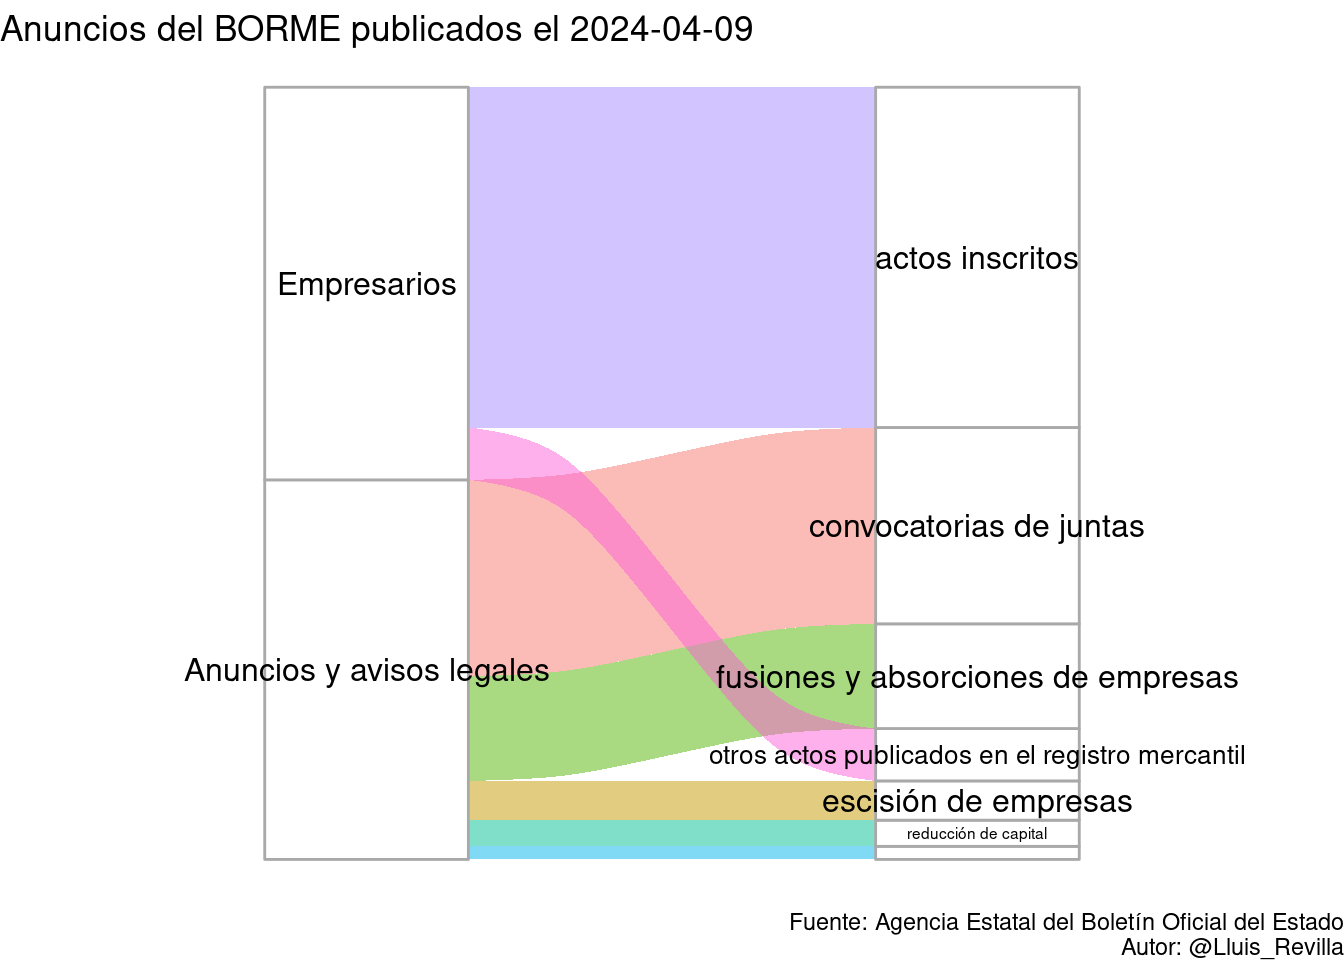
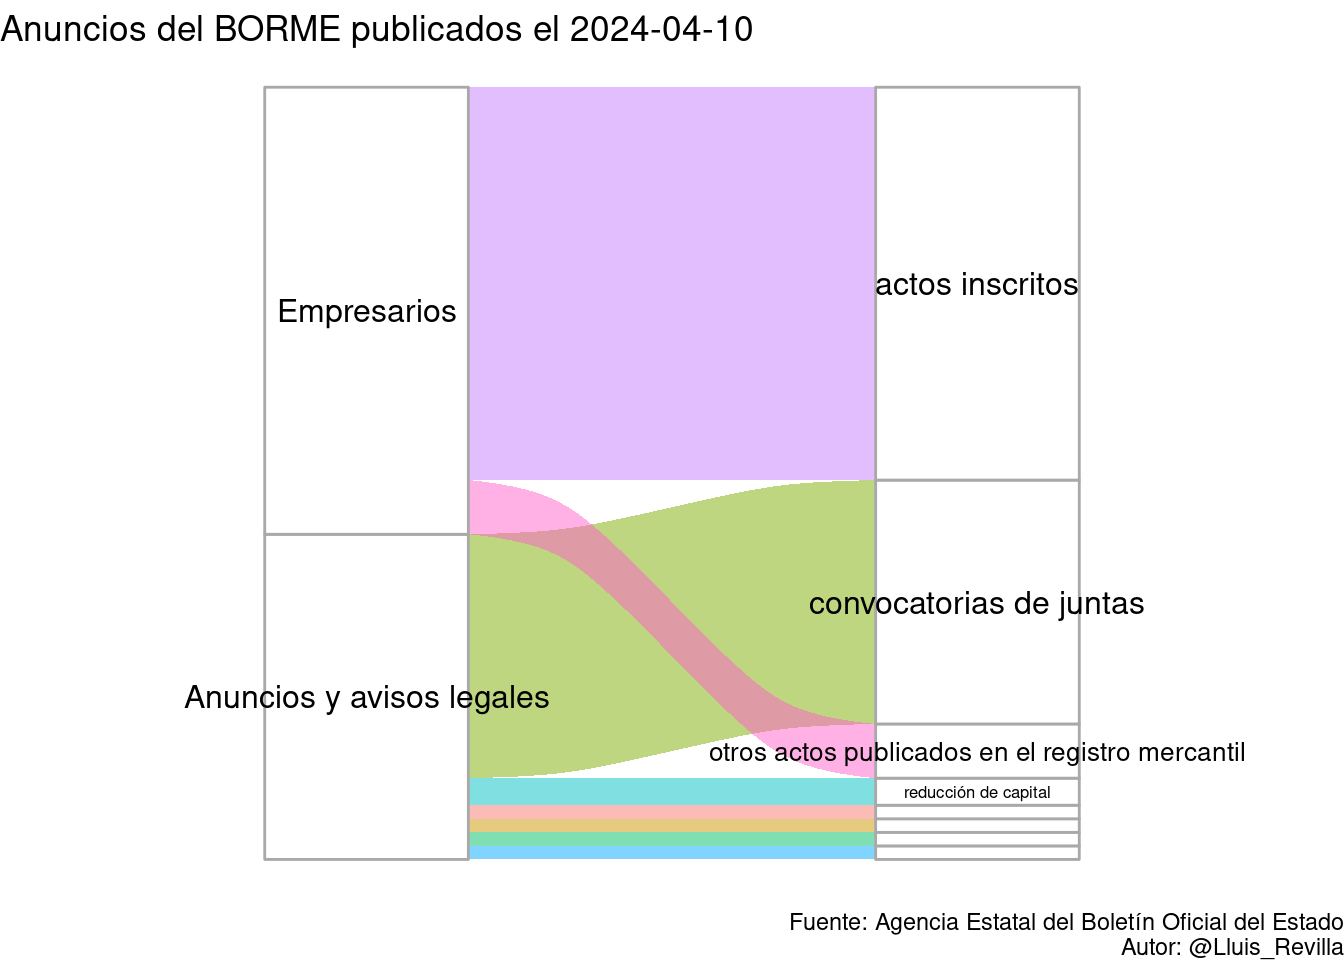
Update BORME

diff --git a/docs/last_BORME.html b/docs/last_BORME.html
@@ -379,14 +379,14 @@ $(document).ready(function () {
 
 <div id="resumen-gráfico" class="section level1">
 <h1>Resumen gráfico</h1>
-<p>Esta página web contiene el último sumario del BORME publicado el 2024-04-09 con 59 publicaciones.</p>
+<p>Esta página web contiene el último sumario del BORME publicado el 2024-04-10 con 57 publicaciones.</p>
 <p><img src="last_BORME_files/figure-html/graphics-1.png" width="672" /></p>
 </div>
 <div id="tabla-de-publicaciones" class="section level1">
 <h1>Tabla de publicaciones</h1>
 <p>Aquí está la tabla completa con enlaces a las publicaciones:</p>
-<div class="datatables html-widget html-fill-item-overflow-hidden html-fill-item" id="htmlwidget-4fb6b2b3174a7cd1887a" style="width:100%;height:auto;"></div>
-<script type="application/json" data-for="htmlwidget-4fb6b2b3174a7cd1887a">{"x":{"filter":"top","vertical":false,"filterHTML":"<tr>\n  <td><\/td>\n  <td data-type=\"character\" style=\"vertical-align: top;\">\n    <div class=\"form-group has-feedback\" style=\"margin-bottom: auto;\">\n      <input type=\"search\" placeholder=\"All\" class=\"form-control\" style=\"width: 100%;\"/>\n      <span class=\"glyphicon glyphicon-remove-circle form-control-feedback\"><\/span>\n    <\/div>\n  <\/td>\n  <td data-type=\"character\" style=\"vertical-align: top;\">\n    <div class=\"form-group has-feedback\" style=\"margin-bottom: auto;\">\n      <input type=\"search\" placeholder=\"All\" class=\"form-control\" style=\"width: 100%;\"/>\n      <span class=\"glyphicon glyphicon-remove-circle form-control-feedback\"><\/span>\n    <\/div>\n  <\/td>\n  <td data-type=\"character\" style=\"vertical-align: top;\">\n    <div class=\"form-group has-feedback\" style=\"margin-bottom: auto;\">\n      <input type=\"search\" placeholder=\"All\" class=\"form-control\" style=\"width: 100%;\" disabled=\"\"/>\n      <span class=\"glyphicon glyphicon-remove-circle form-control-feedback\"><\/span>\n    <\/div>\n  <\/td>\n  <td data-type=\"character\" style=\"vertical-align: top;\">\n    <div class=\"form-group has-feedback\" style=\"margin-bottom: auto;\">\n      <input type=\"search\" placeholder=\"All\" class=\"form-control\" style=\"width: 100%;\"/>\n      <span class=\"glyphicon glyphicon-remove-circle form-control-feedback\"><\/span>\n    <\/div>\n  <\/td>\n<\/tr>","data":[["1","2","3","4","5","6","7","8","9","10","11","12","13","14","15","16","17","18","19","20","21","22","23","24","25","26","27","28","29","30","31","32","33","34","35","36","37","38","39","40","41","42","43","44","45","46","47","48","49","50","51","52","53","54","55","56","57","58","59"],["SECCIÓN PRIMERA. Empresarios","SECCIÓN PRIMERA. Empresarios","SECCIÓN PRIMERA. Empresarios","SECCIÓN PRIMERA. Empresarios","SECCIÓN PRIMERA. Empresarios","SECCIÓN PRIMERA. Empresarios","SECCIÓN PRIMERA. Empresarios","SECCIÓN PRIMERA. Empresarios","SECCIÓN PRIMERA. Empresarios","SECCIÓN PRIMERA. Empresarios","SECCIÓN PRIMERA. Empresarios","SECCIÓN PRIMERA. Empresarios","SECCIÓN PRIMERA. Empresarios","SECCIÓN PRIMERA. Empresarios","SECCIÓN PRIMERA. Empresarios","SECCIÓN PRIMERA. Empresarios","SECCIÓN PRIMERA. Empresarios","SECCIÓN PRIMERA. Empresarios","SECCIÓN PRIMERA. Empresarios","SECCIÓN PRIMERA. Empresarios","SECCIÓN PRIMERA. Empresarios","SECCIÓN PRIMERA. Empresarios","SECCIÓN PRIMERA. Empresarios","SECCIÓN PRIMERA. Empresarios","SECCIÓN PRIMERA. Empresarios","SECCIÓN PRIMERA. Empresarios","SECCIÓN PRIMERA. Empresarios","SECCIÓN PRIMERA. Empresarios","SECCIÓN PRIMERA. Empresarios","SECCIÓN PRIMERA. Empresarios","SECCIÓN SEGUNDA. Anuncios y avisos legales","SECCIÓN SEGUNDA. Anuncios y avisos legales","SECCIÓN SEGUNDA. Anuncios y avisos legales","SECCIÓN SEGUNDA. Anuncios y avisos legales","SECCIÓN SEGUNDA. Anuncios y avisos legales","SECCIÓN SEGUNDA. Anuncios y avisos legales","SECCIÓN SEGUNDA. Anuncios y avisos legales","SECCIÓN SEGUNDA. Anuncios y avisos legales","SECCIÓN SEGUNDA. Anuncios y avisos legales","SECCIÓN SEGUNDA. Anuncios y avisos legales","SECCIÓN SEGUNDA. Anuncios y avisos legales","SECCIÓN SEGUNDA. Anuncios y avisos legales","SECCIÓN SEGUNDA. Anuncios y avisos legales","SECCIÓN SEGUNDA. Anuncios y avisos legales","SECCIÓN SEGUNDA. Anuncios y avisos legales","SECCIÓN SEGUNDA. Anuncios y avisos legales","SECCIÓN SEGUNDA. Anuncios y avisos legales","SECCIÓN SEGUNDA. Anuncios y avisos legales","SECCIÓN SEGUNDA. Anuncios y avisos legales","SECCIÓN SEGUNDA. Anuncios y avisos legales","SECCIÓN SEGUNDA. Anuncios y avisos legales","SECCIÓN SEGUNDA. Anuncios y avisos legales","SECCIÓN SEGUNDA. Anuncios y avisos legales","SECCIÓN SEGUNDA. Anuncios y avisos legales","SECCIÓN SEGUNDA. Anuncios y avisos legales","SECCIÓN SEGUNDA. Anuncios y avisos legales","SECCIÓN SEGUNDA. Anuncios y avisos legales","SECCIÓN SEGUNDA. Anuncios y avisos legales","SECCIÓN SEGUNDA. Anuncios y avisos legales"],["Actos inscritos","Actos inscritos","Actos inscritos","Actos inscritos","Actos inscritos","Actos inscritos","Actos inscritos","Actos inscritos","Actos inscritos","Actos inscritos","Actos inscritos","Actos inscritos","Actos inscritos","Actos inscritos","Actos inscritos","Actos inscritos","Actos inscritos","Actos inscritos","Actos inscritos","Actos inscritos","Actos inscritos","Actos inscritos","Actos inscritos","Actos inscritos","Actos inscritos","Actos inscritos","Otros actos publicados en el Registro Mercantil","Otros actos publicados en el Registro Mercantil","Otros actos publicados en el Registro Mercantil","Otros actos publicados en el Registro Mercantil","CONVOCATORIAS DE JUNTAS","CONVOCATORIAS DE JUNTAS","CONVOCATORIAS DE JUNTAS","CONVOCATORIAS DE JUNTAS","CONVOCATORIAS DE JUNTAS","CONVOCATORIAS DE JUNTAS","CONVOCATORIAS DE JUNTAS","CONVOCATORIAS DE JUNTAS","CONVOCATORIAS DE JUNTAS","CONVOCATORIAS DE JUNTAS","CONVOCATORIAS DE JUNTAS","CONVOCATORIAS DE JUNTAS","CONVOCATORIAS DE JUNTAS","CONVOCATORIAS DE JUNTAS","CONVOCATORIAS DE JUNTAS","FUSIONES Y ABSORCIONES DE EMPRESAS","FUSIONES Y ABSORCIONES DE EMPRESAS","FUSIONES Y ABSORCIONES DE EMPRESAS","FUSIONES Y ABSORCIONES DE EMPRESAS","FUSIONES Y ABSORCIONES DE EMPRESAS","FUSIONES Y ABSORCIONES DE EMPRESAS","FUSIONES Y ABSORCIONES DE EMPRESAS","FUSIONES Y ABSORCIONES DE EMPRESAS","ESCISIÓN DE EMPRESAS","ESCISIÓN DE EMPRESAS","ESCISIÓN DE EMPRESAS","TRANSFORMACIÓN DE EMPRESAS","REDUCCIÓN DE CAPITAL","REDUCCIÓN DE CAPITAL"],[null,null,null,null,null,null,null,null,null,null,null,null,null,null,null,null,null,null,null,null,null,null,null,null,null,null,null,null,null,null,null,null,null,null,null,null,null,null,null,null,null,null,null,null,null,null,null,null,null,null,null,null,null,null,null,null,null,null,null],["BORME-A-2024-69-02","BORME-A-2024-69-04","BORME-A-2024-69-06","BORME-A-2024-69-07","BORME-A-2024-69-08","BORME-A-2024-69-14","BORME-A-2024-69-15","BORME-A-2024-69-17","BORME-A-2024-69-18","BORME-A-2024-69-23","BORME-A-2024-69-24","BORME-A-2024-69-28","BORME-A-2024-69-31","BORME-A-2024-69-33","BORME-A-2024-69-34","BORME-A-2024-69-35","BORME-A-2024-69-36","BORME-A-2024-69-38","BORME-A-2024-69-40","BORME-A-2024-69-41","BORME-A-2024-69-43","BORME-A-2024-69-45","BORME-A-2024-69-46","BORME-A-2024-69-47","BORME-A-2024-69-48","BORME-A-2024-69-99","BORME-B-2024-69-08","BORME-B-2024-69-28","BORME-B-2024-69-42","BORME-B-2024-69-48","BORME-C-2024-1169","BORME-C-2024-1170","BORME-C-2024-1171","BORME-C-2024-1172","BORME-C-2024-1173","BORME-C-2024-1174","BORME-C-2024-1175","BORME-C-2024-1176","BORME-C-2024-1177","BORME-C-2024-1178","BORME-C-2024-1179","BORME-C-2024-1180","BORME-C-2024-1181","BORME-C-2024-1182","BORME-C-2024-1183","BORME-C-2024-1184","BORME-C-2024-1185","BORME-C-2024-1186","BORME-C-2024-1187","BORME-C-2024-1188","BORME-C-2024-1189","BORME-C-2024-1190","BORME-C-2024-1191","BORME-C-2024-1192","BORME-C-2024-1193","BORME-C-2024-1194","BORME-C-2024-1195","BORME-C-2024-1196","BORME-C-2024-1197"]],"container":"<table class=\"display\">\n  <thead>\n    <tr>\n      <th> <\/th>\n      <th>Sección<\/th>\n      <th>Emisor<\/th>\n      <th>Texto<\/th>\n      <th>Link<\/th>\n    <\/tr>\n  <\/thead>\n<\/table>","options":{"pageLength":10,"autoWidth":true,"columnDefs":[{"orderable":false,"targets":0},{"name":" ","targets":0},{"name":"Sección","targets":1},{"name":"Emisor","targets":2},{"name":"Texto","targets":3},{"name":"Link","targets":4}],"order":[],"orderClasses":false,"orderCellsTop":true}},"evals":[],"jsHooks":[]}</script>
+<div class="datatables html-widget html-fill-item-overflow-hidden html-fill-item" id="htmlwidget-20589b60053b0ef5f932" style="width:100%;height:auto;"></div>
+<script type="application/json" data-for="htmlwidget-20589b60053b0ef5f932">{"x":{"filter":"top","vertical":false,"filterHTML":"<tr>\n  <td><\/td>\n  <td data-type=\"character\" style=\"vertical-align: top;\">\n    <div class=\"form-group has-feedback\" style=\"margin-bottom: auto;\">\n      <input type=\"search\" placeholder=\"All\" class=\"form-control\" style=\"width: 100%;\"/>\n      <span class=\"glyphicon glyphicon-remove-circle form-control-feedback\"><\/span>\n    <\/div>\n  <\/td>\n  <td data-type=\"character\" style=\"vertical-align: top;\">\n    <div class=\"form-group has-feedback\" style=\"margin-bottom: auto;\">\n      <input type=\"search\" placeholder=\"All\" class=\"form-control\" style=\"width: 100%;\"/>\n      <span class=\"glyphicon glyphicon-remove-circle form-control-feedback\"><\/span>\n    <\/div>\n  <\/td>\n  <td data-type=\"character\" style=\"vertical-align: top;\">\n    <div class=\"form-group has-feedback\" style=\"margin-bottom: auto;\">\n      <input type=\"search\" placeholder=\"All\" class=\"form-control\" style=\"width: 100%;\" disabled=\"\"/>\n      <span class=\"glyphicon glyphicon-remove-circle form-control-feedback\"><\/span>\n    <\/div>\n  <\/td>\n  <td data-type=\"character\" style=\"vertical-align: top;\">\n    <div class=\"form-group has-feedback\" style=\"margin-bottom: auto;\">\n      <input type=\"search\" placeholder=\"All\" class=\"form-control\" style=\"width: 100%;\"/>\n      <span class=\"glyphicon glyphicon-remove-circle form-control-feedback\"><\/span>\n    <\/div>\n  <\/td>\n<\/tr>","data":[["1","2","3","4","5","6","7","8","9","10","11","12","13","14","15","16","17","18","19","20","21","22","23","24","25","26","27","28","29","30","31","32","33","34","35","36","37","38","39","40","41","42","43","44","45","46","47","48","49","50","51","52","53","54","55","56","57"],["SECCIÓN PRIMERA. Empresarios","SECCIÓN PRIMERA. Empresarios","SECCIÓN PRIMERA. Empresarios","SECCIÓN PRIMERA. Empresarios","SECCIÓN PRIMERA. Empresarios","SECCIÓN PRIMERA. Empresarios","SECCIÓN PRIMERA. Empresarios","SECCIÓN PRIMERA. Empresarios","SECCIÓN PRIMERA. Empresarios","SECCIÓN PRIMERA. Empresarios","SECCIÓN PRIMERA. Empresarios","SECCIÓN PRIMERA. Empresarios","SECCIÓN PRIMERA. Empresarios","SECCIÓN PRIMERA. Empresarios","SECCIÓN PRIMERA. Empresarios","SECCIÓN PRIMERA. Empresarios","SECCIÓN PRIMERA. Empresarios","SECCIÓN PRIMERA. Empresarios","SECCIÓN PRIMERA. Empresarios","SECCIÓN PRIMERA. Empresarios","SECCIÓN PRIMERA. Empresarios","SECCIÓN PRIMERA. Empresarios","SECCIÓN PRIMERA. Empresarios","SECCIÓN PRIMERA. Empresarios","SECCIÓN PRIMERA. Empresarios","SECCIÓN PRIMERA. Empresarios","SECCIÓN PRIMERA. Empresarios","SECCIÓN PRIMERA. Empresarios","SECCIÓN PRIMERA. Empresarios","SECCIÓN PRIMERA. Empresarios","SECCIÓN PRIMERA. Empresarios","SECCIÓN PRIMERA. Empresarios","SECCIÓN PRIMERA. Empresarios","SECCIÓN SEGUNDA. Anuncios y avisos legales","SECCIÓN SEGUNDA. Anuncios y avisos legales","SECCIÓN SEGUNDA. Anuncios y avisos legales","SECCIÓN SEGUNDA. Anuncios y avisos legales","SECCIÓN SEGUNDA. Anuncios y avisos legales","SECCIÓN SEGUNDA. Anuncios y avisos legales","SECCIÓN SEGUNDA. Anuncios y avisos legales","SECCIÓN SEGUNDA. Anuncios y avisos legales","SECCIÓN SEGUNDA. Anuncios y avisos legales","SECCIÓN SEGUNDA. Anuncios y avisos legales","SECCIÓN SEGUNDA. Anuncios y avisos legales","SECCIÓN SEGUNDA. Anuncios y avisos legales","SECCIÓN SEGUNDA. Anuncios y avisos legales","SECCIÓN SEGUNDA. Anuncios y avisos legales","SECCIÓN SEGUNDA. Anuncios y avisos legales","SECCIÓN SEGUNDA. Anuncios y avisos legales","SECCIÓN SEGUNDA. Anuncios y avisos legales","SECCIÓN SEGUNDA. Anuncios y avisos legales","SECCIÓN SEGUNDA. Anuncios y avisos legales","SECCIÓN SEGUNDA. Anuncios y avisos legales","SECCIÓN SEGUNDA. Anuncios y avisos legales","SECCIÓN SEGUNDA. Anuncios y avisos legales","SECCIÓN SEGUNDA. Anuncios y avisos legales","SECCIÓN SEGUNDA. Anuncios y avisos legales"],["Actos inscritos","Actos inscritos","Actos inscritos","Actos inscritos","Actos inscritos","Actos inscritos","Actos inscritos","Actos inscritos","Actos inscritos","Actos inscritos","Actos inscritos","Actos inscritos","Actos inscritos","Actos inscritos","Actos inscritos","Actos inscritos","Actos inscritos","Actos inscritos","Actos inscritos","Actos inscritos","Actos inscritos","Actos inscritos","Actos inscritos","Actos inscritos","Actos inscritos","Actos inscritos","Actos inscritos","Actos inscritos","Actos inscritos","Otros actos publicados en el Registro Mercantil","Otros actos publicados en el Registro Mercantil","Otros actos publicados en el Registro Mercantil","Otros actos publicados en el Registro Mercantil","BALANCES","CONVOCATORIAS DE JUNTAS","CONVOCATORIAS DE JUNTAS","CONVOCATORIAS DE JUNTAS","CONVOCATORIAS DE JUNTAS","CONVOCATORIAS DE JUNTAS","CONVOCATORIAS DE JUNTAS","CONVOCATORIAS DE JUNTAS","CONVOCATORIAS DE JUNTAS","CONVOCATORIAS DE JUNTAS","CONVOCATORIAS DE JUNTAS","CONVOCATORIAS DE JUNTAS","CONVOCATORIAS DE JUNTAS","CONVOCATORIAS DE JUNTAS","CONVOCATORIAS DE JUNTAS","CONVOCATORIAS DE JUNTAS","CONVOCATORIAS DE JUNTAS","CONVOCATORIAS DE JUNTAS","CONVOCATORIAS DE JUNTAS","FUSIONES Y ABSORCIONES DE EMPRESAS","TRANSFORMACIÓN DE EMPRESAS","AUMENTO DE CAPITAL","REDUCCIÓN DE CAPITAL","REDUCCIÓN DE CAPITAL"],[null,null,null,null,null,null,null,null,null,null,null,null,null,null,null,null,null,null,null,null,null,null,null,null,null,null,null,null,null,null,null,null,null,null,null,null,null,null,null,null,null,null,null,null,null,null,null,null,null,null,null,null,null,null,null,null,null],["BORME-A-2024-70-01","BORME-A-2024-70-02","BORME-A-2024-70-03","BORME-A-2024-70-04","BORME-A-2024-70-06","BORME-A-2024-70-07","BORME-A-2024-70-08","BORME-A-2024-70-13","BORME-A-2024-70-14","BORME-A-2024-70-17","BORME-A-2024-70-18","BORME-A-2024-70-21","BORME-A-2024-70-22","BORME-A-2024-70-23","BORME-A-2024-70-24","BORME-A-2024-70-25","BORME-A-2024-70-28","BORME-A-2024-70-29","BORME-A-2024-70-30","BORME-A-2024-70-31","BORME-A-2024-70-35","BORME-A-2024-70-36","BORME-A-2024-70-43","BORME-A-2024-70-45","BORME-A-2024-70-47","BORME-A-2024-70-49","BORME-A-2024-70-50","BORME-A-2024-70-51","BORME-A-2024-70-99","BORME-B-2024-70-07","BORME-B-2024-70-08","BORME-B-2024-70-20","BORME-B-2024-70-28","BORME-C-2024-1198","BORME-C-2024-1199","BORME-C-2024-1200","BORME-C-2024-1201","BORME-C-2024-1202","BORME-C-2024-1203","BORME-C-2024-1204","BORME-C-2024-1205","BORME-C-2024-1206","BORME-C-2024-1207","BORME-C-2024-1208","BORME-C-2024-1209","BORME-C-2024-1210","BORME-C-2024-1211","BORME-C-2024-1212","BORME-C-2024-1213","BORME-C-2024-1214","BORME-C-2024-1215","BORME-C-2024-1216","BORME-C-2024-1217","BORME-C-2024-1218","BORME-C-2024-1219","BORME-C-2024-1220","BORME-C-2024-1221"]],"container":"<table class=\"display\">\n  <thead>\n    <tr>\n      <th> <\/th>\n      <th>Sección<\/th>\n      <th>Emisor<\/th>\n      <th>Texto<\/th>\n      <th>Link<\/th>\n    <\/tr>\n  <\/thead>\n<\/table>","options":{"pageLength":10,"autoWidth":true,"columnDefs":[{"orderable":false,"targets":0},{"name":" ","targets":0},{"name":"Sección","targets":1},{"name":"Emisor","targets":2},{"name":"Texto","targets":3},{"name":"Link","targets":4}],"order":[],"orderClasses":false,"orderCellsTop":true}},"evals":[],"jsHooks":[]}</script>
 </div>
 
 
